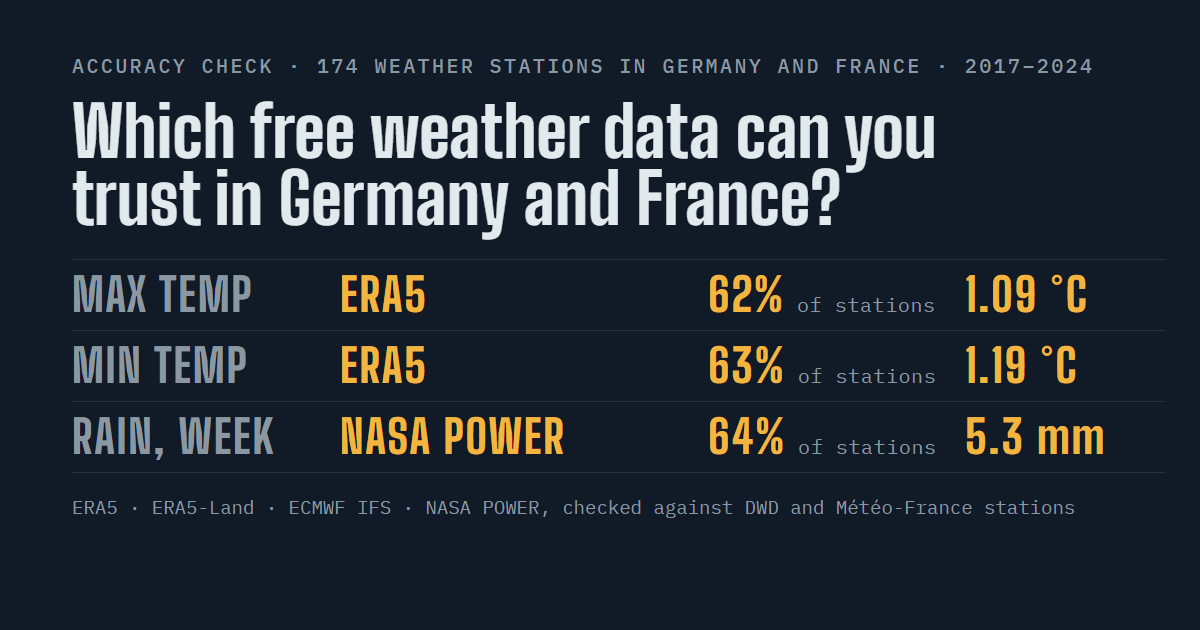
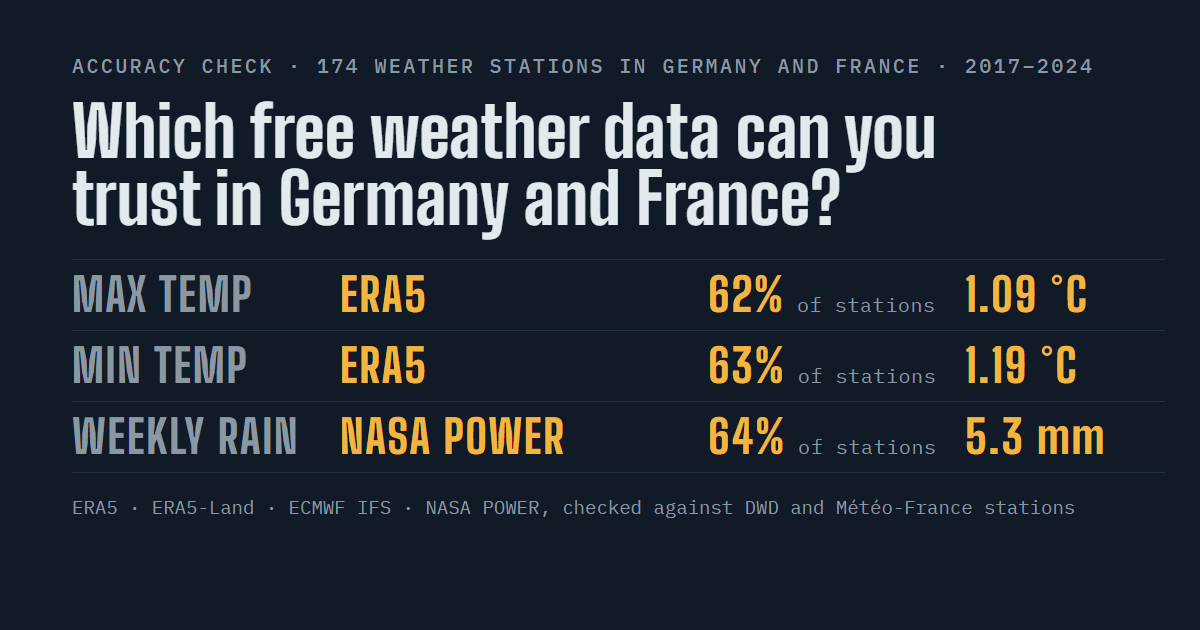
Clearer copy: daily rain counted from 6:00 to 6:00 UTC, weekly rain on the board, map tooltips show the error

Changed region(s): [[0.0617, 0.6635, 0.2467, 0.7238]]

diff --git a/europe/index.html b/europe/index.html
@@ -254,14 +254,14 @@ footer .col { border-top: 1px solid var(--rule); padding-top: 1rem; display: gri
     <nav class="editions" aria-label="Edition"><a href="https://sazonov-p.github.io/free-weather-data-scorecard/">United States</a><a href="https://sazonov-p.github.io/free-weather-data-scorecard/europe/" aria-current="page">Germany &amp; France</a></nav>
     <p class="eyebrow">Accuracy check · 174 weather stations in Germany and France · 2017–2024</p>
     <h1>Which free weather data can you trust in Germany and France?</h1>
-    <p class="dek">We compared four free global data sets (ERA5, ERA5-Land, ECMWF IFS and NASA POWER) with the daily records of the German and French national weather services. Each service ends its day at its own hours, so we cut every data set into the same windows before comparing.</p>
+    <p class="dek">We compared four free global data sets (ERA5, ERA5-Land, ECMWF IFS and NASA POWER) with the daily records of the German and French national weather services. The services do not count their days from midnight to midnight, so we rebuilt each data set's daily values over the services' hours before comparing.</p>
     <p class="byline">By <a href="https://www.linkedin.com/in/sazonov-pavel/" rel="author noopener" target="_blank">Pavel Sazonov</a> · October 2026</p>
     <div class="board">
       <div role="table" aria-label="Best free global source by variable, Germany and France">
         <div class="board-row board-head" role="row"><span role="columnheader">Variable</span><span role="columnheader">Best free source</span><span role="columnheader">Stations won</span><span role="columnheader">Typical error</span></div>
         <div class="board-row" role="row"><span class="b-var" role="rowheader">Max temp</span><span class="b-src" role="cell" data-flap>ERA5</span><span class="b-won" role="cell"><span data-flap>62%</span><small> of stations</small></span><span class="b-err" role="cell"><small>error </small><span data-flap>1.09 °C</span></span></div>
         <div class="board-row" role="row"><span class="b-var" role="rowheader">Min temp</span><span class="b-src" role="cell" data-flap>ERA5</span><span class="b-won" role="cell"><span data-flap>63%</span><small> of stations</small></span><span class="b-err" role="cell"><small>error </small><span data-flap>1.19 °C</span></span></div>
-        <div class="board-row" role="row"><span class="b-var" role="rowheader">Rain, week</span><span class="b-src" role="cell" data-flap>NASA POWER</span><span class="b-won" role="cell"><span data-flap>64%</span><small> of stations</small></span><span class="b-err" role="cell"><small>error </small><span data-flap>5.3 mm</span></span></div>
+        <div class="board-row" role="row"><span class="b-var" role="rowheader">Weekly rain</span><span class="b-src" role="cell" data-flap>NASA POWER</span><span class="b-won" role="cell"><span data-flap>64%</span><small> of stations</small></span><span class="b-err" role="cell"><small>error </small><span data-flap>5.3 mm</span></span></div>
       </div>
       <p class="board-foot">80 DWD stations in Germany and 94 Météo-France stations in France, 2017–2024, days when all sources have data. Typical error is the mean absolute error at the median station: of daily values for temperature, of weekly totals for rain. The same sources won in our US test.</p>
     </div>
@@ -310,20 +310,20 @@ footer .col { border-top: 1px solid var(--rule); padding-top: 1rem; display: gri
   <section id="day">
     <div class="col">
       <p class="eyebrow">A trap in the timestamps</p>
-      <h2>Rain days run from 6 to 6</h2>
-      <p>Ask DWD or Météo-France for Monday's rain and you get what fell between 6:00 UTC on Monday and 6:00 UTC on Tuesday. Temperature days differ by country. DWD takes Monday's high and low from midnight to midnight UTC. Météo-France takes Monday's high from 6:00 UTC on Monday to 6:00 UTC on Tuesday, and Monday's low from 18:00 UTC on Sunday to 18:00 UTC on Monday. The free data sets come as hourly values in UTC, so we cut each of them into the service's own windows.</p>
+      <h2>Daily rain is counted from 6:00 to 6:00 UTC</h2>
+      <p>Ask DWD or Météo-France for Monday's rain and you get what fell between 6:00 UTC on Monday and 6:00 UTC on Tuesday. For temperature, the hours differ by country. DWD takes Monday's high and low from midnight to midnight UTC. Météo-France takes Monday's high from 6:00 UTC on Monday to 6:00 UTC on Tuesday, and Monday's low from 18:00 UTC on Sunday to 18:00 UTC on Monday. The free data sets come as hourly values in UTC, so we rebuilt their daily values over the same hours the services use.</p>
     </div>
     <figure class="band">
       <div class="chart" id="day-chart" role="img" aria-label="Time windows of one day at DWD and Météo-France"></div>
       <figcaption>Times are UTC. Clocks in Germany and France show UTC+1 in winter and UTC+2 in summer.</figcaption>
     </figure>
     <div class="col">
-      <p>To see how much the window matters, we moved the end of the day hour by hour and measured how far ERA5's daily rain landed from the gauges each time. The error was smallest with the day ending at 6:00 UTC, as both services document; that hour came out best at 59 of 80 German and 62 of 94 French stations. A plain calendar day, midnight to midnight in local winter time, made the daily rain error 23% larger in Germany and 22% larger in France. For temperature, calendar days added at most 6% to ERA5's error, because the day's high and low usually fall well inside either window.</p>
+      <p>To see how much this matters, we moved the end of the day hour by hour and measured how far ERA5's daily rain landed from the gauges each time. The error was smallest with the day ending at 6:00 UTC, as both services document; that hour came out best at 59 of 80 German and 62 of 94 French stations. A plain calendar day, midnight to midnight in local winter time, made the daily rain error 23% larger in Germany and 22% larger in France. For temperature, calendar days added at most 6% to ERA5's error, because the day's high and low usually fall well inside either window.</p>
     </div>
     <figure class="band">
       <div class="legend" id="scan-legend"></div>
       <div class="chart" id="scan-chart" role="img" aria-label="Error of ERA5 daily rain for day windows ending at different hours"></div>
-      <figcaption>Median absolute error of ERA5 daily rain at 80 DWD and 94 Météo-France stations, 2017–2024, as the end of Monday's window moves from noon on Monday to noon on Tuesday (UTC).</figcaption>
+      <figcaption>Median absolute error of ERA5 daily rain at 80 DWD and 94 Météo-France stations, 2017–2024, as the end of Monday's day moves from noon on Monday to noon on Tuesday, UTC.</figcaption>
     </figure>
   </section>
 
@@ -378,7 +378,7 @@ footer .col { border-top: 1px solid var(--rule); padding-top: 1rem; display: gri
           <tr><td>Daily max temperature</td><td><span class="pick">ERA5</span></td><td>Lowest error at 62% of stations. In Germany the ECMWF forecasts came close. In hilly terrain adjust for height, about 0.7 °C per 100 m.</td></tr>
           <tr><td>Daily min temperature</td><td><span class="pick">ERA5</span>, check locally</td><td>Best at 63% of stations; in France the ECMWF forecasts had a slightly lower median error. Raw values run 0.6 to 0.8 °C warm at night.</td></tr>
           <tr><td>Rain</td><td><span class="pick">NASA POWER</span></td><td>Lowest error of weekly totals at 64% of stations, about 10% less error than ERA5 and IFS. POWER rain is adjusted to gauge analyses. A plain average of POWER, ERA5 and IFS did slightly better still, 5.1 mm against 5.3 mm.</td></tr>
-          <tr><td>Daily rain to match DWD or Météo-France</td><td><span class="pick">6:00 to 6:00 UTC</span></td><td>Cut any source into the services' rain day. Calendar days add about a fifth to the daily error.</td></tr>
+          <tr><td>Daily rain to match DWD or Météo-France</td><td><span class="pick">6:00 to 6:00 UTC</span></td><td>Add up any source's hourly rain over these hours. Calendar days add about a fifth to the daily error.</td></tr>
           <tr><td>Frost risk, degree days</td><td>Correct the bias with local stations</td><td>Raw sources run warm at night and cool by day.</td></tr>
         </tbody>
       </table>
@@ -391,7 +391,7 @@ footer .col { border-top: 1px solid var(--rule); padding-top: 1rem; display: gri
       <h2>Method and limits</h2>
       <ul class="tight">
         <li>Reference: daily station records of the national weather services, 2017–2024. Germany: DWD Climate Data Center, daily max and min temperature and rain. France: Météo-France basic daily climate data for mainland France and Corsica; values flagged as doubtful were dropped.</li>
-        <li>Each service closes its day at its own hours (chart above). Every source was cut into the same windows from its hourly values, NASA POWER included. German stations count only if their metadata show these windows for the whole period.</li>
+        <li>Each service closes its day at its own hours (chart above). Every source's daily values were rebuilt from its hourly values over the same hours, NASA POWER included. German stations count only if their metadata show these hours for the whole period.</li>
         <li>One station per French département and per 1° × 0.75° cell in Germany: the most complete one, with at least 90% of days in 7 of 8 years for every variable. Stations that moved more than 2 km or 50 m in height during the period were left out.</li>
         <li>ECMWF IFS here is Open-Meteo's archive of the high-resolution forecast. It starts in 2017, which sets the period.</li>
         <li>Each source is read at the nearest grid point over land, without interpolation, and all sources are compared on the same days. Helgoland has no land point nearby in ERA5-Land, so it counts for rain only.</li>
@@ -498,7 +498,7 @@ function renderMap() {
   const d = mapVar === "prcp" ? 1 : 2;
   const title = (s) => {
     const x = s[mapVar];
-    return `${s.name}, ${COUNTRY[s.country]}, ${fmt(s.elev, 0)} m\nBest: ${srcName(x.best)} ${fmt(x.value, d)} ${unit}\nRunner-up: ${srcName(x.second)} ${fmt(x.second_value, d)} ${unit}`;
+    return `${s.name}, ${COUNTRY[s.country]}, ${fmt(s.elev, 0)} m\nLowest error: ${srcName(x.best)}, ${fmt(x.value, d)} ${unit}\nNext: ${srcName(x.second)}, ${fmt(x.second_value, d)} ${unit}`;
   };
   const chart = Plot.plot({
     width,
@@ -593,7 +593,7 @@ function renderScan() {
     height: narrow ? 300 : 340,
     marginLeft: 44, marginRight: 24, marginTop: 20, marginBottom: 44,
     style: plotStyle(narrow ? "11px" : "12px"),
-    x: { domain: [12, 36], ticks: narrow ? [12, 24, 36] : [12, 18, 24, 30, 36], tickFormat: tickLabel, label: "Monday's day window ends at, UTC →" },
+    x: { domain: [12, 36], ticks: narrow ? [12, 24, 36] : [12, 18, 24, 30, 36], tickFormat: tickLabel, label: "End of Monday's day, UTC →" },
     y: { domain: [0, Math.ceil(yMax * 2) / 2], grid: true, label: "↑ Median error of daily rain, mm" },
     marks: [
       Plot.ruleX([24 - DATA.windows.MF_prcp.documented], { stroke: tok("--rule"), strokeDasharray: "3 3" }),
@@ -680,13 +680,13 @@ function renderHeight() {
 
 /* Winners in the US, Germany and France */
 function renderCompare() {
-  const vars = [["tmax", "Max temp", "tmax_mae", "°C", 2], ["tmin", "Min temp", "tmin_mae", "°C", 2], ["prcp", "Rain, weekly", "prcp_week", "mm", 1]];
+  const vars = [["tmax", "Max temp", "tmax_mae", "°C", 2], ["tmin", "Min temp", "tmin_mae", "°C", 2], ["prcp", "Weekly rain", "prcp_week", "mm", 1]];
   const regions = [["US", DATA.us], ["Germany", DATA.country.DE], ["France", DATA.country.FR]].filter((r) => r[1]);
   const lead = (rows, v) => rows.reduce((a, b) => ((b[`${v}_wins`] ?? 0) > (a[`${v}_wins`] ?? 0) ? b : a));
   const head = `<thead><tr><th>Variable</th>${regions.map((r) => `<th>${r[0]}</th>`).join("")}</tr></thead>`;
   const body = vars.map(([v, label, key, unit, d]) => `<tr><td>${label}</td>${regions.map(([, rows]) => {
     const b = lead(rows, v);
-    return `<td><span class="pick"><span class="swatch" style="background:${srcColor(b.source)}"></span>${srcName(b.source)}</span><span class="err">${pct(b[`${v}_wins`])} of stations · ${fmt(b[key], d)} ${unit}</span></td>`;
+    return `<td><span class="pick"><span class="swatch" style="background:${srcColor(b.source)}"></span>${srcName(b.source)}</span><span class="err">${pct(b[`${v}_wins`])} of stations · error ${fmt(b[key], d)} ${unit}</span></td>`;
   }).join("")}</tr>`).join("");
   document.getElementById("compare-table").innerHTML = head + `<tbody>${body}</tbody>`;
 }

diff --git a/index.html b/index.html
@@ -259,7 +259,7 @@ footer .col { border-top: 1px solid var(--rule); padding-top: 1rem; display: gri
         <div class="board-row board-head" role="row"><span role="columnheader">Variable</span><span role="columnheader">Best global source</span><span role="columnheader">Stations won</span><span role="columnheader">Typical error</span></div>
         <div class="board-row" role="row"><span class="b-var" role="rowheader">Max temp</span><span class="b-src" role="cell" data-flap>ERA5</span><span class="b-won" role="cell"><span data-flap>85%</span><small> of stations</small></span><span class="b-err" role="cell"><small>error </small><span data-flap>1.06 °C</span></span></div>
         <div class="board-row" role="row"><span class="b-var" role="rowheader">Min temp</span><span class="b-src" role="cell" data-flap>ERA5</span><span class="b-won" role="cell"><span data-flap>67%</span><small> of stations</small></span><span class="b-err" role="cell"><small>error </small><span data-flap>1.53 °C</span></span></div>
-        <div class="board-row" role="row"><span class="b-var" role="rowheader">Rain, week</span><span class="b-src" role="cell" data-flap>NASA POWER</span><span class="b-won" role="cell"><span data-flap>85%</span><small> of stations</small></span><span class="b-err" role="cell"><small>error </small><span data-flap>5.5 mm</span></span></div>
+        <div class="board-row" role="row"><span class="b-var" role="rowheader">Weekly rain</span><span class="b-src" role="cell" data-flap>NASA POWER</span><span class="b-won" role="cell"><span data-flap>85%</span><small> of stations</small></span><span class="b-err" role="cell"><small>error </small><span data-flap>5.5 mm</span></span></div>
       </div>
       <p class="board-foot">172 stations in 10 states, days when all sources have data (2017–2024). Typical error is the mean absolute error at the median station: of daily values for temperature, of weekly totals for rain. In the US, free <span class="nw">station-based</span> grids beat the best global source on rain.</p>
     </div>
@@ -501,7 +501,7 @@ function renderMap() {
   const title = (s) => {
     const x = s[mapVar];
     const kind = s.kind === "USCRN" ? "rural reference station (USCRN)" : "airport or first-order station";
-    return `${s.name}, ${s.state}\n${kind}\nBest: ${srcName(x.best)} ${fmt(x.value, d)} ${unit}\nRunner-up: ${srcName(x.second)} ${fmt(x.second_value, d)} ${unit}`;
+    return `${s.name}, ${s.state}\n${kind}\nLowest error: ${srcName(x.best)}, ${fmt(x.value, d)} ${unit}\nNext: ${srcName(x.second)}, ${fmt(x.second_value, d)} ${unit}`;
   };
   const chart = Plot.plot({
     width,
